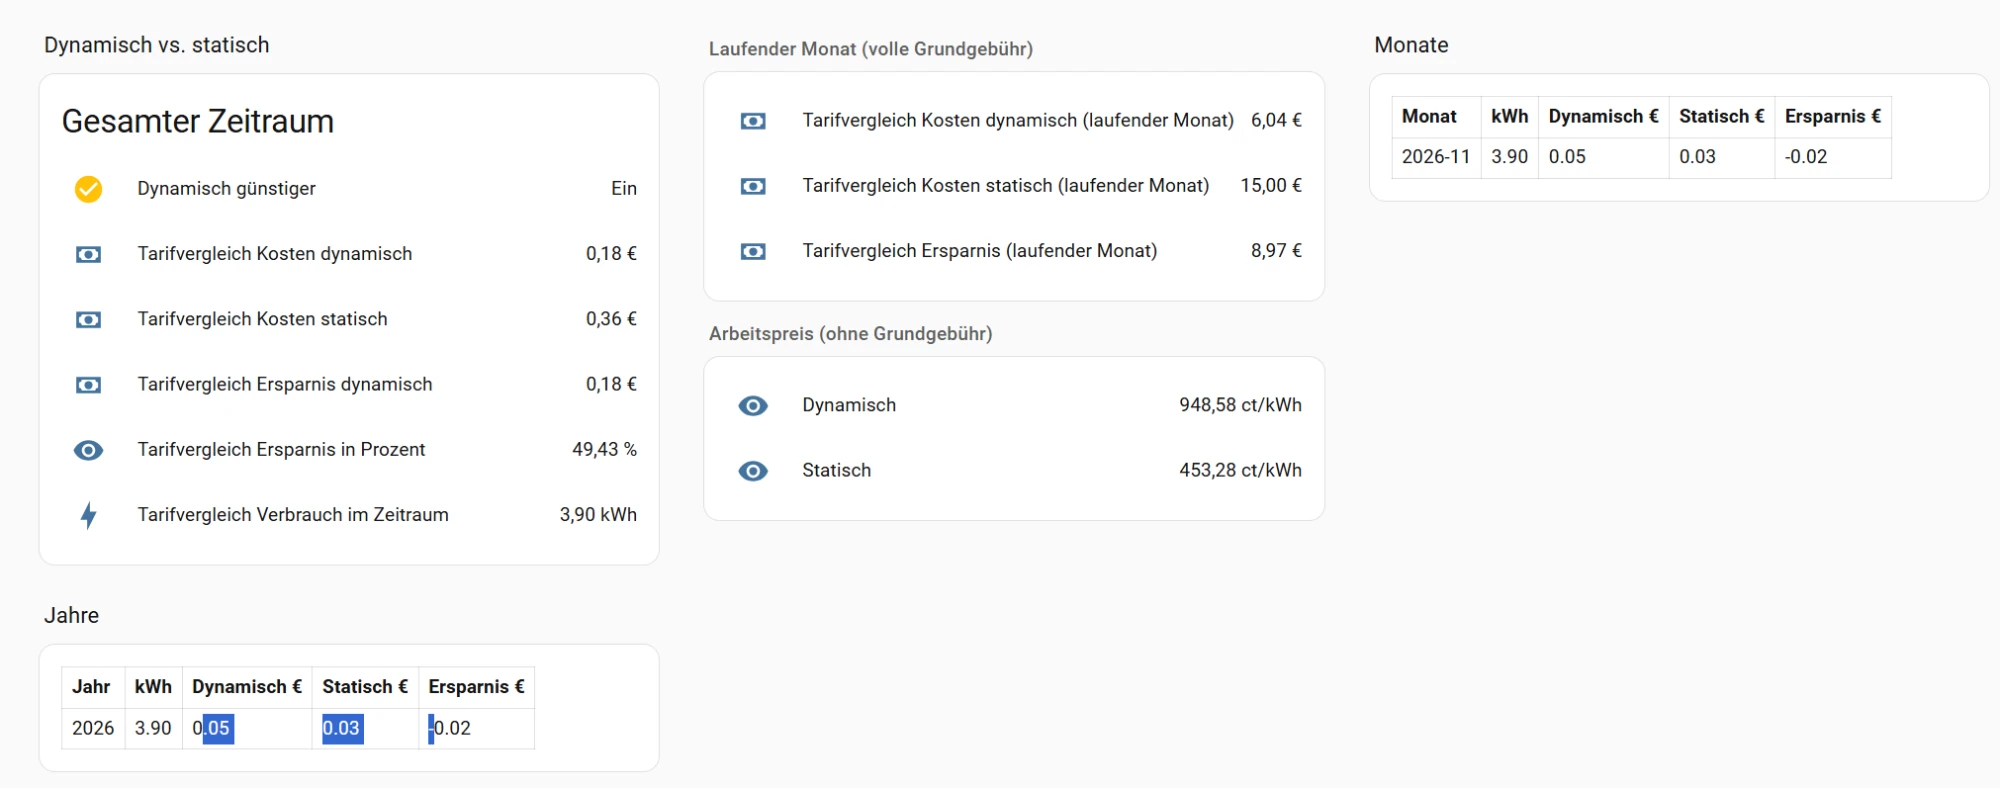
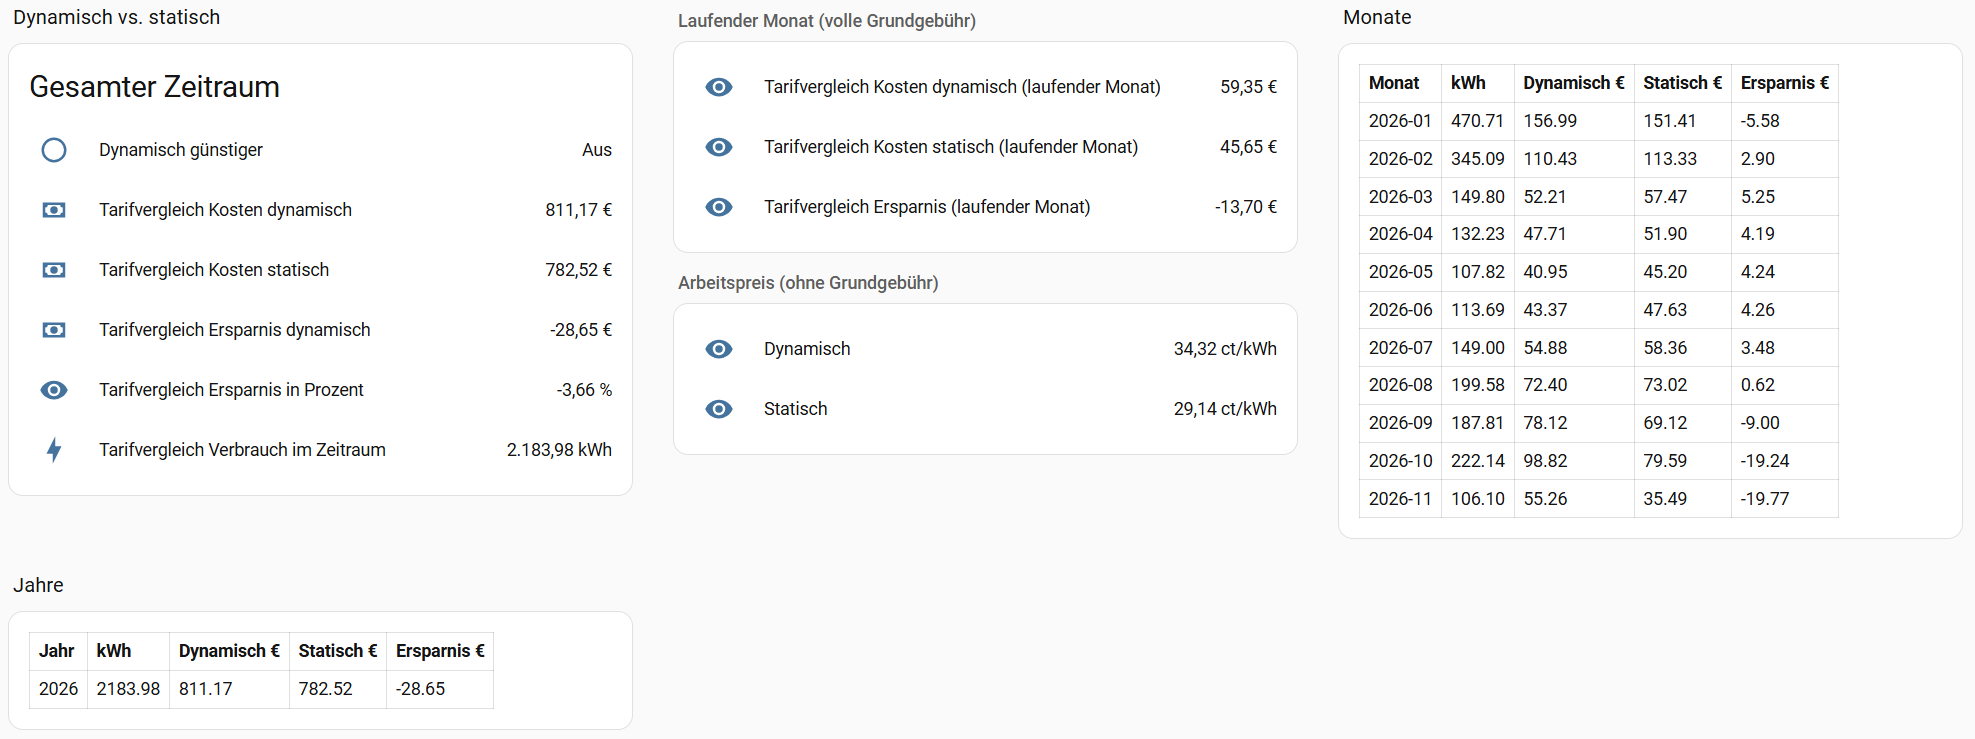
Release 1.0.0: updated README and screenshots
Claude-Session: https://claude.ai/code/session_015WwMVLXNMvQBcqCEnGUzMf

diff --git a/custom_components/ha_dynamic_tariff_auditor/const.py b/custom_components/ha_dynamic_tariff_auditor/const.py
@@ -1,7 +1,7 @@
 """Konstanten für ha_dynamic_tariff_auditor."""
 
 DOMAIN = "ha_dynamic_tariff_auditor"
-VERSION = "0.9.0"
+VERSION = "1.0.0"
 
 CONF_NAME = "name"
 CONF_CONSUMPTION = "consumption_entity"

diff --git a/README.md b/README.md
@@ -1,53 +1,84 @@
 # ha_dynamic_tariff_auditor
 
 Home-Assistant-Integration, die einen **dynamischen Stromtarif** (Tibber, aWATTar o. Ä.) über einen
-Zeitraum gegen einen **statischen Tarif** (Grundpreis + Arbeitspreis) vergleicht. Mehrere statische
-Gültigkeitszeiträume werden unterstützt. Die Auswertung läuft live und historisch: beim Erstlauf
-werden die Stunden-Statistiken aus der Datenbank nachberechnet.
+Zeitraum gegen einen oder mehrere **statische Tarife** (Grundpreis + Arbeitspreis) vergleicht.
+Die Auswertung läuft live und historisch: Der Erstlauf rechnet ab einem frei wählbaren Datum nach,
+danach läuft sie mit den Zustandsänderungen weiter.
 
 ## Funktionen
 
-- Config-Flow: dynamischer Tarif (Zähler, Börsenpreis-Sensor, Faktor, Aufschlag, Grundpreis) und beliebig viele statische Zeiträume
-- Historische Auswertung ab einem frei wählbaren Datum: Stunden-Mittelwerte der Leistung aus der Langzeit-Statistik (dauerhaft in der DB), danach der Zustandsverlauf
-- Verbrauch: bei Leistung Stundenmittel im Erstlauf bzw. Zeitintegration, bei Zählern Stundendifferenz im Erstlauf bzw. Zählerdifferenz
-- Live-Auswertung über Zustandsänderungen, Zwischenstand wird gespeichert
-- Sensoren: Kosten dynamisch / statisch, Ersparnis (€ und %), Verbrauch, Ø-Preise (ct/kWh)
-- Attribut `zeitraeume` am Sensor „Ersparnis dynamisch“: Aufschlüsselung je statischem Zeitraum
-- Binärsensor „Dynamisch günstiger“
+- **Tarifbibliothek:** statische Tarife anlegen, ändern und löschen. Änderungen wirken auf alle Einträge, die den Tarif nutzen.
+- **Zuweisungen:** Jeder Eintrag bekommt einen oder mehrere Tarife mit eigenem Gültigkeitszeitraum. Die Zeiträume dürfen sich nicht überschneiden.
+- **Dynamischer Tarif:** Börsenpreis-Sensor, Faktor (z. B. MwSt.), Aufschlag, Grundpreis.
+- **Auswertungszeitraum:** Beginn und optionales Ende.
+- **Historie:** Erstlauf aus der Langzeit-Statistik des Recorders, danach aus dem Zustandsverlauf.
+- **Preisimport:** Börsenpreise aus SMARD-CSV oder direkt von der Energy-Charts-API (DE-LU) für einen Zeitraum.
+- **Sensoren:** Kosten dynamisch und statisch, Ersparnis in € und %, Verbrauch, Ø-Arbeitspreise (ct/kWh, ohne Grundgebühr).
+- **Monats- und Jahreswerte:** als Attribute `monate` und `jahre` am Sensor „Kosten dynamisch“, inklusive anteiliger Grundgebühr.
+- **Laufender Monat:** eigene Sensoren mit der vollen Grundgebühr des Monats.
+- **Binärsensor** „Dynamisch günstiger“.
 
 ## Voraussetzungen
 
-- Netzbezug-Sensor, automatisch erkannt an der Einheit:
+- **Netzbezug-Sensor**, Einheit wird automatisch erkannt:
   - Leistung in W oder kW (`state_class: measurement`): Verbrauch = Leistung × Zeit. Negative Werte (Einspeisung) zählen nicht.
-  - Zähler in Wh, kWh oder MWh (`state_class: total_increasing`): Verbrauch = Zählerdifferenz
-- Börsenpreis-Sensor mit `state_class: measurement` (sonst gibt es keine Stunden-Statistik)
-- Recorder aktiv. Für Auswertungen über Monate sollte `purge_keep_days` nicht zu klein sein, weil nur der Zeitraum seit dem letzten Stand aus den Zuständen gelesen wird. Die Stunden-Statistik bleibt dauerhaft erhalten.
+  - Zähler in Wh, kWh oder MWh (`state_class: total_increasing`): Verbrauch = Zählerdifferenz.
+- **Börsenpreis-Sensor** mit `state_class: measurement`. Die Einheit (ct/kWh, €/kWh, €/MWh) wird ebenfalls erkannt.
+- **Recorder** aktiv. Für Auswertungen über Monate sollte `purge_keep_days` nicht zu klein sein. Die Stunden-Statistik bleibt dauerhaft erhalten.
 
 ## Installation
 
-1. Ordner `custom_components/ha_dynamic_tariff_auditor/` nach `config/custom_components/` kopieren.
+1. Ordner `custom_components/ha_dynamic_tariff_auditor/` nach `config/custom_components/` kopieren (oder über HACS als benutzerdefiniertes Repository einbinden).
 2. Home Assistant neu starten.
 3. Einstellungen → Geräte & Dienste → Integration hinzufügen → „Dynamic Tariff Auditor“.
 
-## Preise eingeben
+## Einrichtung
 
-### Statische Tarife
-Im Config-Flow je Zeitraum: Bezeichnung, gültig ab, gültig bis (optional), Grundpreis (€/Monat), Arbeitspreis (ct/kWh, brutto). Für einen Preiswechsel einen weiteren Zeitraum anlegen. Eine Optionsseite dafür gibt es noch nicht.
+1. **Dynamischer Tarif:** Verbrauchssensor, Börsenpreis-Sensor, Grundpreis, Faktor, Aufschlag, Auswertung ab (optional bis).
+2. **Statische Tarife zuweisen:** einen Tarif aus der Bibliothek wählen oder neu anlegen, dazu Gültig ab und Gültig bis (optional). Mit „Weiteren Tarif zuweisen“ kommen weitere Zeiträume dazu.
+
+Nachträglich unter **Konfigurieren** möglich:
+
+- Eingegebene Werte anzeigen
+- Dynamischen Tarif ändern
+- Statischen Tarif zuweisen oder Zuweisung entfernen
+- Tarif in der Bibliothek anlegen, ändern oder löschen
+
+Ein Tarif lässt sich nur löschen, wenn kein Eintrag ihn mehr nutzt.
 
 ### Dynamischer Tarif
-Vorbelegt sind Faktor **1,19** und Aufschlag **18 ct/kWh**. Die Richtwerte:
 
-- **Faktor:** 1,19, wenn der Börsenpreis netto ist (MwSt. 19 %). Ist der Sensor schon brutto (z. B. Tibber-Gesamtpreis), 1,0 eintragen.
-- **Aufschlag:** typisch **16–20 ct/kWh** je nach Anbieter und Netzbetreiber (Netzentgelte, Umlagen, Anbieteraufschlag). Die genaue Höhe steht auf der Stromrechnung.
-
-Der Preis wird aus dem Sensor so berechnet:
+Der Preis wird aus dem Börsenpreis so berechnet:
 
     Preis = Spotpreis × Faktor + Aufschlag
 
-- **Tibber:** Der Tibber-Preissensor liefert meist den Gesamtpreis brutto. Faktor `1,0`, Aufschlag `0`.
-- **aWATTar:** Der Sensor liefert oft den Börsenpreis netto. Faktor `1,19` (Mehrwertsteuer), Aufschlag = Netzentgelte, Abgaben und Anbieterpreis in ct/kWh.
+Vorbelegt sind Faktor **1,19** und Aufschlag **18 ct/kWh**.
+
+- **Faktor:** 1,19, wenn der Börsenpreis netto ist (MwSt. 19 %). Ist der Sensor schon brutto (z. B. Tibber-Gesamtpreis), 1,0 eintragen.
+- **Aufschlag:** typisch **16–20 ct/kWh** je nach Anbieter und Netzbetreiber (Netzentgelte, Umlagen, Anbieteraufschlag). Die genaue Höhe steht auf der Stromrechnung.
+- **Tibber:** meist Faktor `1,0`, Aufschlag `0`.
+- **aWATTar:** Faktor `1,19`, Aufschlag = Netzentgelte, Abgaben und Anbieterpreis.
 
 Den Abgleich macht man am besten mit der Stromrechnung. Stimmt der Betrag nicht, passt meist Faktor oder Aufschlag nicht.
+
+## Börsenpreise importieren
+
+Fehlt die Preis-Historie, lassen sich Börsenpreise für einen Zeitraum nachladen. Die Preise landen in der Speicherdatei der Integration (`.storage/ha_dynamic_tariff_auditor.prices`).
+
+**Energy-Charts (empfohlen):** Dienst `ha_dynamic_tariff_auditor.import_energy_charts_prices`
+
+```yaml
+service: ha_dynamic_tariff_auditor.import_energy_charts_prices
+data:
+  start: "2025-01-01"
+  end: "2025-12-31"
+```
+
+`end` ist optional (Standard: heute). Die Abfrage läuft in Blöcken von 92 Tagen mit Pause; bei HTTP 429 wird wiederholt.
+
+**SMARD:** Dienst `ha_dynamic_tariff_auditor.import_smard_prices` mit einer CSV-Datei (Großhandelspreise DE/LU, €/MWh). Die Datei auf dem HA-Host ablegen, z. B. unter `/config/www/smard.csv`, und den Pfad als `file` angeben.
+
+Nach einem Import wird die Auswertung ab Auswertungsbeginn neu berechnet.
 
 ## Dashboard-Beispiel
 
@@ -55,9 +86,7 @@ Die Ansicht „Tarif“ mit Gesamtkosten, laufendem Monat, Arbeitspreisen sowie 
 
 ![Dashboard-Ansicht Tarif](docs/screenshots/dashboard-tarif.png)
 
-![Jahresübersicht](docs/screenshots/dashboard-jahre.png)
-
-*Hinweis: Die Screenshots stammen von Version 0.3.2. Die Werte aus dieser Version sind teilweise fehlerhaft (siehe Changelog 0.3.3). Aktuelle Screenshots folgen.*
+![Sensoren der Integration](docs/screenshots/dienst-sensoren.png)
 
 Einbinden: Dashboard „Home“ → Bearbeiten → Ansicht hinzufügen, dann den Inhalt der YAML-Datei übernehmen (Ansicht als YAML bearbeiten).
 
@@ -66,16 +95,16 @@ Einbinden: Dashboard „Home“ → Bearbeiten → Ansicht hinzufügen, dann den
     pip install pytest
     python -m pytest tests
 
-Die Tests prüfen die reine Berechnungslogik in `calc.py` ohne Home Assistant.
+Die Tests prüfen die Berechnung in `calc.py` ohne Home Assistant.
 
 ## Bekannte Einschränkungen
 
 - Preise und Leistung aus der Statistik sind Stundenmittel. Bei 15-Minuten-Preisen geht Auflösung verloren.
 - Der Zustandsverlauf reicht nur so weit wie der Recorder. Ist HA länger aus als `purge_keep_days`, fehlt der Zeitraum.
 - Bei Leistungssensoren hängt die Genauigkeit davon ab, wie oft der Sensor aktualisiert.
-- Tarife lassen sich nach dem Anlegen nicht ändern (keine Optionsseite).
 - Die Grundgebühr wird anteilig nach Sekunden berechnet, 1 Monat = 30,4375 Tage.
-- Noch nicht in einer echten Home-Assistant-Instanz getestet.
+- Zeiträume ohne Tarif oder ohne Börsenpreis zählen auf keiner Seite. Dafür braucht es vollständige Tarif- und Preisdaten.
+- Die Monatssensoren „laufender Monat“ und die Eingabe-Sensoren beziehen sich immer auf den heutigen Tag.
 
 ## Lizenz
 
